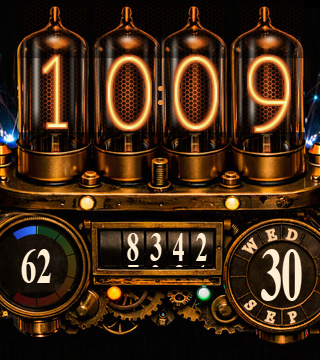
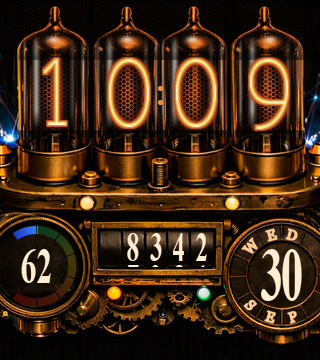
feat(ciq): the time digits 5 % smaller
TIME_INK is now one constant for the tube digits' ink height (75 px x TOP_K x 0.95), shared by all
three layers - the wire font, its eroded cream core and the halo font - so they stay concentric and
a future size change is one number. Measured from the font metrics: ink 74 px -> 70 px (5.0 %), still
centred on TIME_Y 95, and every digit's ink centre lands on its TIME_X (55 / 128.5 / 195.5 / 268.5
against 55 / 129 / 196 / 269).

prepare_artwork's DIGIT_INK_HALF_SRC follows the ink's own extent (79.5 -> 75.5 source px), so the
artwork dimming band above and below the digits still brackets what is actually drawn.

diff --git a/ciq/make_fonts.py b/ciq/make_fonts.py
@@ -186,12 +186,17 @@ def px_for_ink(source, ink):
 # of a wire cathode, and the user reported the result "really hard to read on the device" - the
 # eroded stroke is ~3 px at 74 px ink and the panel washes it out. `thick=1` dilates if it is ever
 # wanted heavier than the typeface's own weight.
-t_atlas, t_glyphs = build("NixieTime", DIGITS, px=px_for_ink(NIXIE_ONE, 75 * TOP_K),
-                          condense=0.80, source=NIXIE_ONE)          # ~75 px digits, tubes
+# The tube digits' ink height, in device px, as ONE constant: the wire font, its eroded cream core and
+# the halo font are all derived from it, so the layers stay concentric and a size change is one number.
+# 75 px at the old layout scale, x TOP_K for the split-scale enlargement, x 0.95 for the user's request
+# to make the time digits 5 % smaller.
+TIME_INK = 75 * TOP_K * 0.95
+t_atlas, t_glyphs = build("NixieTime", DIGITS, px=px_for_ink(NIXIE_ONE, TIME_INK),
+                          condense=0.80, source=NIXIE_ONE)          # ~70 px digits, tubes
 # NixieTimeHot: the same glyphs eroded 1 px per side, drawn as the wire's CREAM CORE over the yellow
 # glyph (the user's zoom specifies exactly that: f8f7d4 core, f5e67d body). Erosion happens after the
 # crop, so both fonts share metrics and the core sits concentrically inside the wire.
-h_atlas, h_glyphs = build("NixieTimeHot", DIGITS, px=px_for_ink(NIXIE_ONE, 75 * TOP_K),
+h_atlas, h_glyphs = build("NixieTimeHot", DIGITS, px=px_for_ink(NIXIE_ONE, TIME_INK),
                           condense=0.80, source=NIXIE_ONE, erode=1)
 # NixieTimeHalo: the wire's OUTER fade, drawn in the last glow colour (INK_GLOW3). Its glyphs ARE the
 # alpha ramp - full brightness at the stroke's edge, LOGARITHMICALLY down to nothing 4 px out - so the
@@ -199,7 +204,7 @@ h_atlas, h_glyphs = build("NixieTimeHot", DIGITS, px=px_for_ink(NIXIE_ONE, 75 * 
 # exactly that: "the last colour ... alpha blend over the background for 4 pixels out to nothing",
 # then "make the alpha falloff logarithmically, not linear". The pad is 5 px so the 4 px fade and its
 # anti-aliased tail both fit inside the glyph box.
-hl_atlas, hl_glyphs = build("NixieTimeHalo", DIGITS, px=px_for_ink(NIXIE_ONE, 75 * TOP_K),
+hl_atlas, hl_glyphs = build("NixieTimeHalo", DIGITS, px=px_for_ink(NIXIE_ONE, TIME_INK),
                             condense=0.80, source=NIXIE_ONE, halo=(0.5, 4.5, 5, "log"))
 # NixieDay: the date dial's day number. The weekday and month moved out to the dial's ring
 # (make_date_ring.py), which freed the inner disc for a bigger number: 54 px ink (user-approved,

diff --git a/ciq/prepare_artwork.py b/ciq/prepare_artwork.py
@@ -128,7 +128,8 @@ GLASS_HAZE_SIGMA = (20, 60)     # source px, x and y: tight around the digit, st
 GLOW_DIM_BELOW = 0.65
 GLOW_DIM_ABOVE = 0.45
 GLOW_DIM_SIGMA = 30.0            # source px
-DIGIT_INK_HALF_SRC = 79.5        # half the 74 screen px ink height, in source px
+DIGIT_INK_HALF_SRC = 75.5        # half the tube digit's ink height, in source px (70 px screen ink
+                                 # after the user's 5 % reduction, / ST), so the dim band follows it
 
 
 def _dim_field(h, w):
